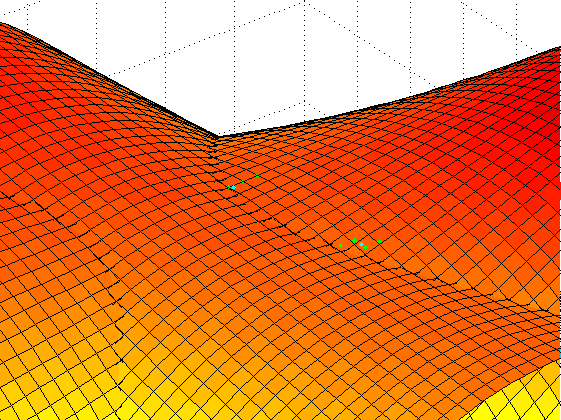
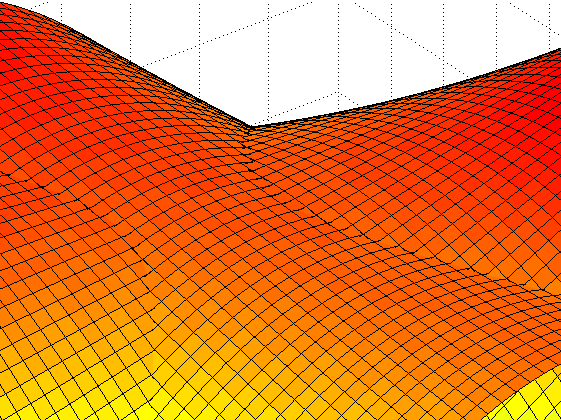
...

Changed region(s): [[0.0, 0.0, 1.0, 1.0]]

diff --git a/devoir3/TestNewton3.m b/devoir3/TestNewton3.m
@@ -29,13 +29,13 @@ end
 figure(1)
 surf(X, Y, G1); hold on;
 surf(X , Y, G2); hold on;
-for i=1:n
-    for j=1:n
-        if (abs(G1(i,j))<5 && abs(G2(i,j))<5)
-            plot3(X(i),Y(j),0,'b.');hold on;
-        end
-    end
-end
+% for i=1:n
+%     for j=1:n
+%         if (abs(G1(i,j))<5 && abs(G2(i,j))<5)
+%             plot3(X(i),Y(j),0,'b.');hold on;
+%         end
+%     end
+% end
 plot3(1.4337,-3.309,0,'r.');hold on;
 plot3(-0.2264,0.3972,0,'r.');hold on;
 plot3(0.706,0.5621,0,'r.');hold on;
